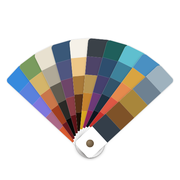
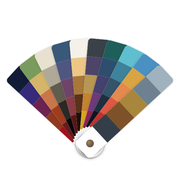
Use Minuted's dark-mode palette on the studio site

Changed region(s): [[0.0278, 0.3611, 0.4167, 0.8056]]

diff --git a/index.html b/index.html
@@ -68,7 +68,7 @@
          it; tap or click to jump to the app. -->
     <div class="deck-wrap">
       <div class="deck" id="deck">
-        <a class="strip" href="#minuted" data-name="Minuted" data-tag="Every meeting has a price tag."><i style="--c:#378add"></i><i style="--c:#5a81dd"></i><i style="--c:#7f77dd"></i><i style="--c:#ab6987"></i><i style="--c:#d85a30"></i><b>Minuted</b></a>
+        <a class="strip" href="#minuted" data-name="Minuted" data-tag="Every meeting has a price tag."><i style="--c:#131c36"></i><i style="--c:#352b7a"></i><i style="--c:#6c2351"></i><i style="--c:#90391d"></i><i style="--c:#a2131b"></i><b>Minuted</b></a>
         <a class="strip" href="#winnowed" data-name="Winnowed" data-tag="Keep what counts. Cut the rest."><i style="--c:#7a9b5e"></i><i style="--c:#d4b56a"></i><i style="--c:#c9774a"></i><i style="--c:#a03d1e"></i><i style="--c:#6b1a1e"></i><b>Winnowed</b></a>
         <a class="strip" href="#endured" data-name="Endured" data-tag="Hard work, honestly recorded."><i style="--c:#e8e1d0"></i><i style="--c:#b0a998"></i><i style="--c:#605c50"></i><i style="--c:#2a2926"></i><i style="--c:#0a0a09"></i><b>Endured</b></a>
         <a class="strip" href="#eclipsed" data-name="Eclipsed" data-tag="Sleep debt, made visible."><i style="--c:#3a5878"></i><i style="--c:#4f5680"></i><i style="--c:#6e4569"></i><i style="--c:#8b3d45"></i><i style="--c:#5e1418"></i><b>Eclipsed</b></a>
@@ -86,12 +86,12 @@
   </div>
 
   <!-- All fifty colors in one band, sliding sideways as the page scrolls. -->
-  <div class="spectrum" aria-hidden="true"><div class="spectrum-track" id="spectrum"><i style="--c:#378add"></i><i style="--c:#5a81dd"></i><i style="--c:#7f77dd"></i><i style="--c:#ab6987"></i><i style="--c:#d85a30"></i><i style="--c:#7a9b5e"></i><i style="--c:#d4b56a"></i><i style="--c:#c9774a"></i><i style="--c:#a03d1e"></i><i style="--c:#6b1a1e"></i><i style="--c:#e8e1d0"></i><i style="--c:#b0a998"></i><i style="--c:#605c50"></i><i style="--c:#2a2926"></i><i style="--c:#0a0a09"></i><i style="--c:#3a5878"></i><i style="--c:#4f5680"></i><i style="--c:#6e4569"></i><i style="--c:#8b3d45"></i><i style="--c:#5e1418"></i><i style="--c:#f5f1e8"></i><i style="--c:#edc788"></i><i style="--c:#a87838"></i><i style="--c:#5a3318"></i><i style="--c:#1f1108"></i><i style="--c:#3a4148"></i><i style="--c:#4e4468"></i><i style="--c:#b89654"></i><i style="--c:#c4832f"></i><i style="--c:#d9a621"></i><i style="--c:#1f5f5b"></i><i style="--c:#2e4e6e"></i><i style="--c:#46406e"></i><i style="--c:#6e3a78"></i><i style="--c:#8e2358"></i><i style="--c:#5fbfcf"></i><i style="--c:#3e829b"></i><i style="--c:#33546b"></i><i style="--c:#1e3040"></i><i style="--c:#0e1620"></i><i style="--c:#4a90c2"></i><i style="--c:#d9a441"></i><i style="--c:#e58a4e"></i><i style="--c:#de5845"></i><i style="--c:#c7302b"></i><i style="--c:#9fb2be"></i><i style="--c:#6e8191"></i><i style="--c:#a8863b"></i><i style="--c:#7e5228"></i><i style="--c:#343e49"></i><i style="--c:#378add"></i><i style="--c:#5a81dd"></i><i style="--c:#7f77dd"></i><i style="--c:#ab6987"></i><i style="--c:#d85a30"></i><i style="--c:#7a9b5e"></i><i style="--c:#d4b56a"></i><i style="--c:#c9774a"></i><i style="--c:#a03d1e"></i><i style="--c:#6b1a1e"></i><i style="--c:#e8e1d0"></i><i style="--c:#b0a998"></i><i style="--c:#605c50"></i><i style="--c:#2a2926"></i><i style="--c:#0a0a09"></i><i style="--c:#3a5878"></i><i style="--c:#4f5680"></i><i style="--c:#6e4569"></i><i style="--c:#8b3d45"></i><i style="--c:#5e1418"></i><i style="--c:#f5f1e8"></i><i style="--c:#edc788"></i><i style="--c:#a87838"></i><i style="--c:#5a3318"></i><i style="--c:#1f1108"></i><i style="--c:#3a4148"></i><i style="--c:#4e4468"></i><i style="--c:#b89654"></i><i style="--c:#c4832f"></i><i style="--c:#d9a621"></i><i style="--c:#1f5f5b"></i><i style="--c:#2e4e6e"></i><i style="--c:#46406e"></i><i style="--c:#6e3a78"></i><i style="--c:#8e2358"></i><i style="--c:#5fbfcf"></i><i style="--c:#3e829b"></i><i style="--c:#33546b"></i><i style="--c:#1e3040"></i><i style="--c:#0e1620"></i><i style="--c:#4a90c2"></i><i style="--c:#d9a441"></i><i style="--c:#e58a4e"></i><i style="--c:#de5845"></i><i style="--c:#c7302b"></i><i style="--c:#9fb2be"></i><i style="--c:#6e8191"></i><i style="--c:#a8863b"></i><i style="--c:#7e5228"></i><i style="--c:#343e49"></i></div></div>
+  <div class="spectrum" aria-hidden="true"><div class="spectrum-track" id="spectrum"><i style="--c:#131c36"></i><i style="--c:#352b7a"></i><i style="--c:#6c2351"></i><i style="--c:#90391d"></i><i style="--c:#a2131b"></i><i style="--c:#7a9b5e"></i><i style="--c:#d4b56a"></i><i style="--c:#c9774a"></i><i style="--c:#a03d1e"></i><i style="--c:#6b1a1e"></i><i style="--c:#e8e1d0"></i><i style="--c:#b0a998"></i><i style="--c:#605c50"></i><i style="--c:#2a2926"></i><i style="--c:#0a0a09"></i><i style="--c:#3a5878"></i><i style="--c:#4f5680"></i><i style="--c:#6e4569"></i><i style="--c:#8b3d45"></i><i style="--c:#5e1418"></i><i style="--c:#f5f1e8"></i><i style="--c:#edc788"></i><i style="--c:#a87838"></i><i style="--c:#5a3318"></i><i style="--c:#1f1108"></i><i style="--c:#3a4148"></i><i style="--c:#4e4468"></i><i style="--c:#b89654"></i><i style="--c:#c4832f"></i><i style="--c:#d9a621"></i><i style="--c:#1f5f5b"></i><i style="--c:#2e4e6e"></i><i style="--c:#46406e"></i><i style="--c:#6e3a78"></i><i style="--c:#8e2358"></i><i style="--c:#5fbfcf"></i><i style="--c:#3e829b"></i><i style="--c:#33546b"></i><i style="--c:#1e3040"></i><i style="--c:#0e1620"></i><i style="--c:#4a90c2"></i><i style="--c:#d9a441"></i><i style="--c:#e58a4e"></i><i style="--c:#de5845"></i><i style="--c:#c7302b"></i><i style="--c:#9fb2be"></i><i style="--c:#6e8191"></i><i style="--c:#a8863b"></i><i style="--c:#7e5228"></i><i style="--c:#343e49"></i><i style="--c:#131c36"></i><i style="--c:#352b7a"></i><i style="--c:#6c2351"></i><i style="--c:#90391d"></i><i style="--c:#a2131b"></i><i style="--c:#7a9b5e"></i><i style="--c:#d4b56a"></i><i style="--c:#c9774a"></i><i style="--c:#a03d1e"></i><i style="--c:#6b1a1e"></i><i style="--c:#e8e1d0"></i><i style="--c:#b0a998"></i><i style="--c:#605c50"></i><i style="--c:#2a2926"></i><i style="--c:#0a0a09"></i><i style="--c:#3a5878"></i><i style="--c:#4f5680"></i><i style="--c:#6e4569"></i><i style="--c:#8b3d45"></i><i style="--c:#5e1418"></i><i style="--c:#f5f1e8"></i><i style="--c:#edc788"></i><i style="--c:#a87838"></i><i style="--c:#5a3318"></i><i style="--c:#1f1108"></i><i style="--c:#3a4148"></i><i style="--c:#4e4468"></i><i style="--c:#b89654"></i><i style="--c:#c4832f"></i><i style="--c:#d9a621"></i><i style="--c:#1f5f5b"></i><i style="--c:#2e4e6e"></i><i style="--c:#46406e"></i><i style="--c:#6e3a78"></i><i style="--c:#8e2358"></i><i style="--c:#5fbfcf"></i><i style="--c:#3e829b"></i><i style="--c:#33546b"></i><i style="--c:#1e3040"></i><i style="--c:#0e1620"></i><i style="--c:#4a90c2"></i><i style="--c:#d9a441"></i><i style="--c:#e58a4e"></i><i style="--c:#de5845"></i><i style="--c:#c7302b"></i><i style="--c:#9fb2be"></i><i style="--c:#6e8191"></i><i style="--c:#a8863b"></i><i style="--c:#7e5228"></i><i style="--c:#343e49"></i></div></div>
 
   <section class="apps" id="apps" aria-labelledby="apps-heading">
     <h2 id="apps-heading">The apps</h2>
 
-    <article class="app" id="minuted" style="--s1:#378add;--s2:#5a81dd;--s3:#7f77dd;--s4:#ab6987;--s5:#d85a30">
+    <article class="app" id="minuted" style="--s1:#131c36;--s2:#352b7a;--s3:#6c2351;--s4:#90391d;--s5:#a2131b">
       <img class="icon" src="/images/minuted-icon.png" alt="" width="72" height="72" loading="lazy">
       <div class="app-text">
         <h3>Minuted</h3>

diff --git a/support.html b/support.html
@@ -41,7 +41,7 @@
   <p class="doc-meta">Each app has its own dedicated support page with FAQs and how&#x2011;tos. Pick the one you&rsquo;re using.</p>
 
   <div class="help-list">
-    <a class="help" href="https://minuted.org/support" rel="noopener" style="--s1:#378add;--s2:#5a81dd;--s3:#7f77dd;--s4:#ab6987;--s5:#d85a30">
+    <a class="help" href="https://minuted.org/support" rel="noopener" style="--s1:#131c36;--s2:#352b7a;--s3:#6c2351;--s4:#90391d;--s5:#a2131b">
       <img class="icon" src="/images/minuted-icon.png" alt="" width="56" height="56">
       <span class="help-text">
         <span class="help-name">Minuted support</span>
